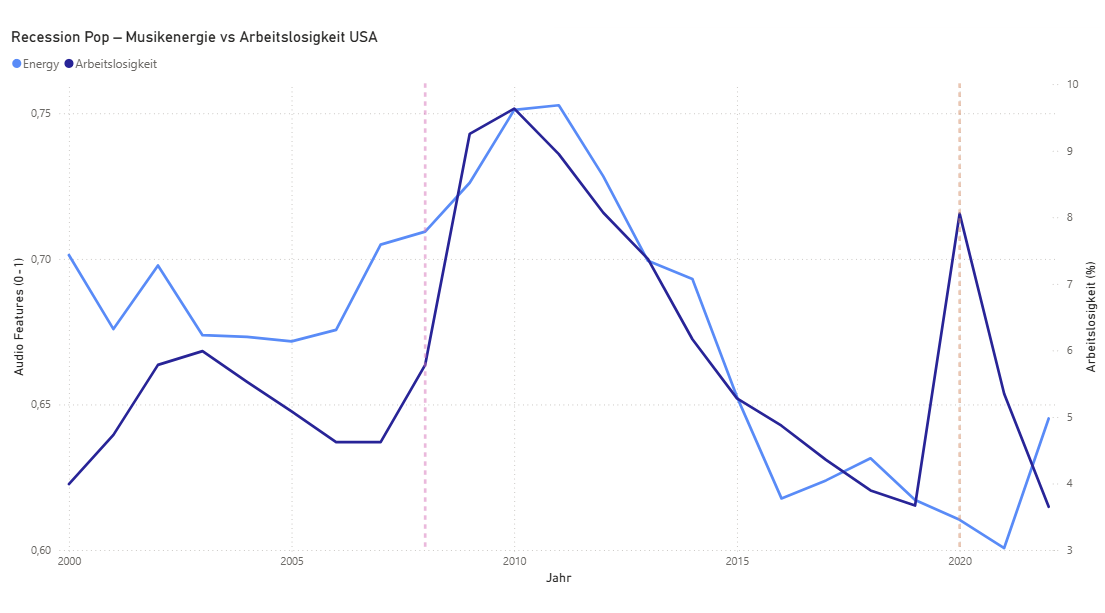
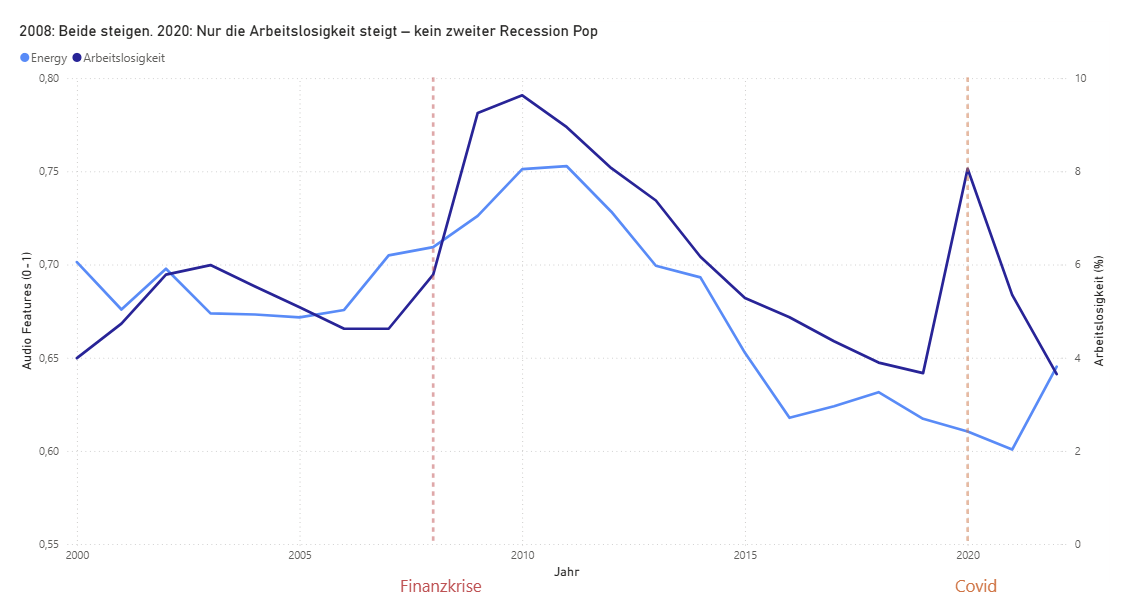
README fertig - Recession Pop Analyse

diff --git a/README.md b/README.md
@@ -1,23 +1,32 @@
-# Recession Pop – Musikenergie vs Wirtschaftskrisen USA
+# Recession Pop – Musikenergie vs. Wirtschaftskrisen USA
 
 ## Forschungsfrage
 Spiegelt sich die wirtschaftliche Lage der USA in den 
-Musikpräferenzen wider?
+Musikpräferenzen wider – und wenn ja, wie?
 
-## These
-Der Recession Pop Effekt – und warum COVID anders war
+## Hintergrund
+„Recession Pop" ist ein Begriff der ursprünglich für einen 
+Musikstil der späten 2000er Jahre geprägt wurde – Dance-Pop 
+und Electropop die während der Finanzkrise in den USA entstanden.
+Diese Analyse untersucht ob sich dieser kulturelle Effekt 
+statistisch in den Billboard Hot-100 Daten nachweisen lässt 
+und ob er sich bei COVID 2020 wiederholt hat.
 
 ## Datenquellen
-- Billboard Hot-100 1946-2022
-- Weltbank GDP & Unemployment USA
+- Billboard Hot-100 (2000–2022) mit Spotify Audio Features
+- Weltbank: US Arbeitslosigkeit und BIP
 
 ## Ergebnisse
-- Energy korreliert mit Unemployment – außer bei COVID
-- Valence sinkt langfristig unabhängig von Krisen
+- Energy korreliert stark positiv mit Arbeitslosigkeit (r=0.61, p=0.002)
+- Danceability korreliert stark negativ (r=-0.69)
+- Valence zeigt kaum Zusammenhang (r=0.05)
+- Lag-Analyse: Musik folgt Wirtschaft mit ~1 Jahr Verzögerung (r=0.66)
+- COVID 2020: kein Recession Pop Effekt – mögliche Erklärung: digitale Informationsüberflutung
 
-## Limitationen
-- Billboard misst Popularität nicht Hörverhalten
-- Streaming veränderte Charts ab ~2015
+## Limitation
+- Billboard misst Charterfolg nicht Hörverhalten
+- Spotify Audio Features für ältere Songs retroaktiv berechnet
+- Nur 23 Datenpunkte
 
 ## Tools
-Python, Pandas, Power BI
+Python, Pandas, SciPy, Power BI
